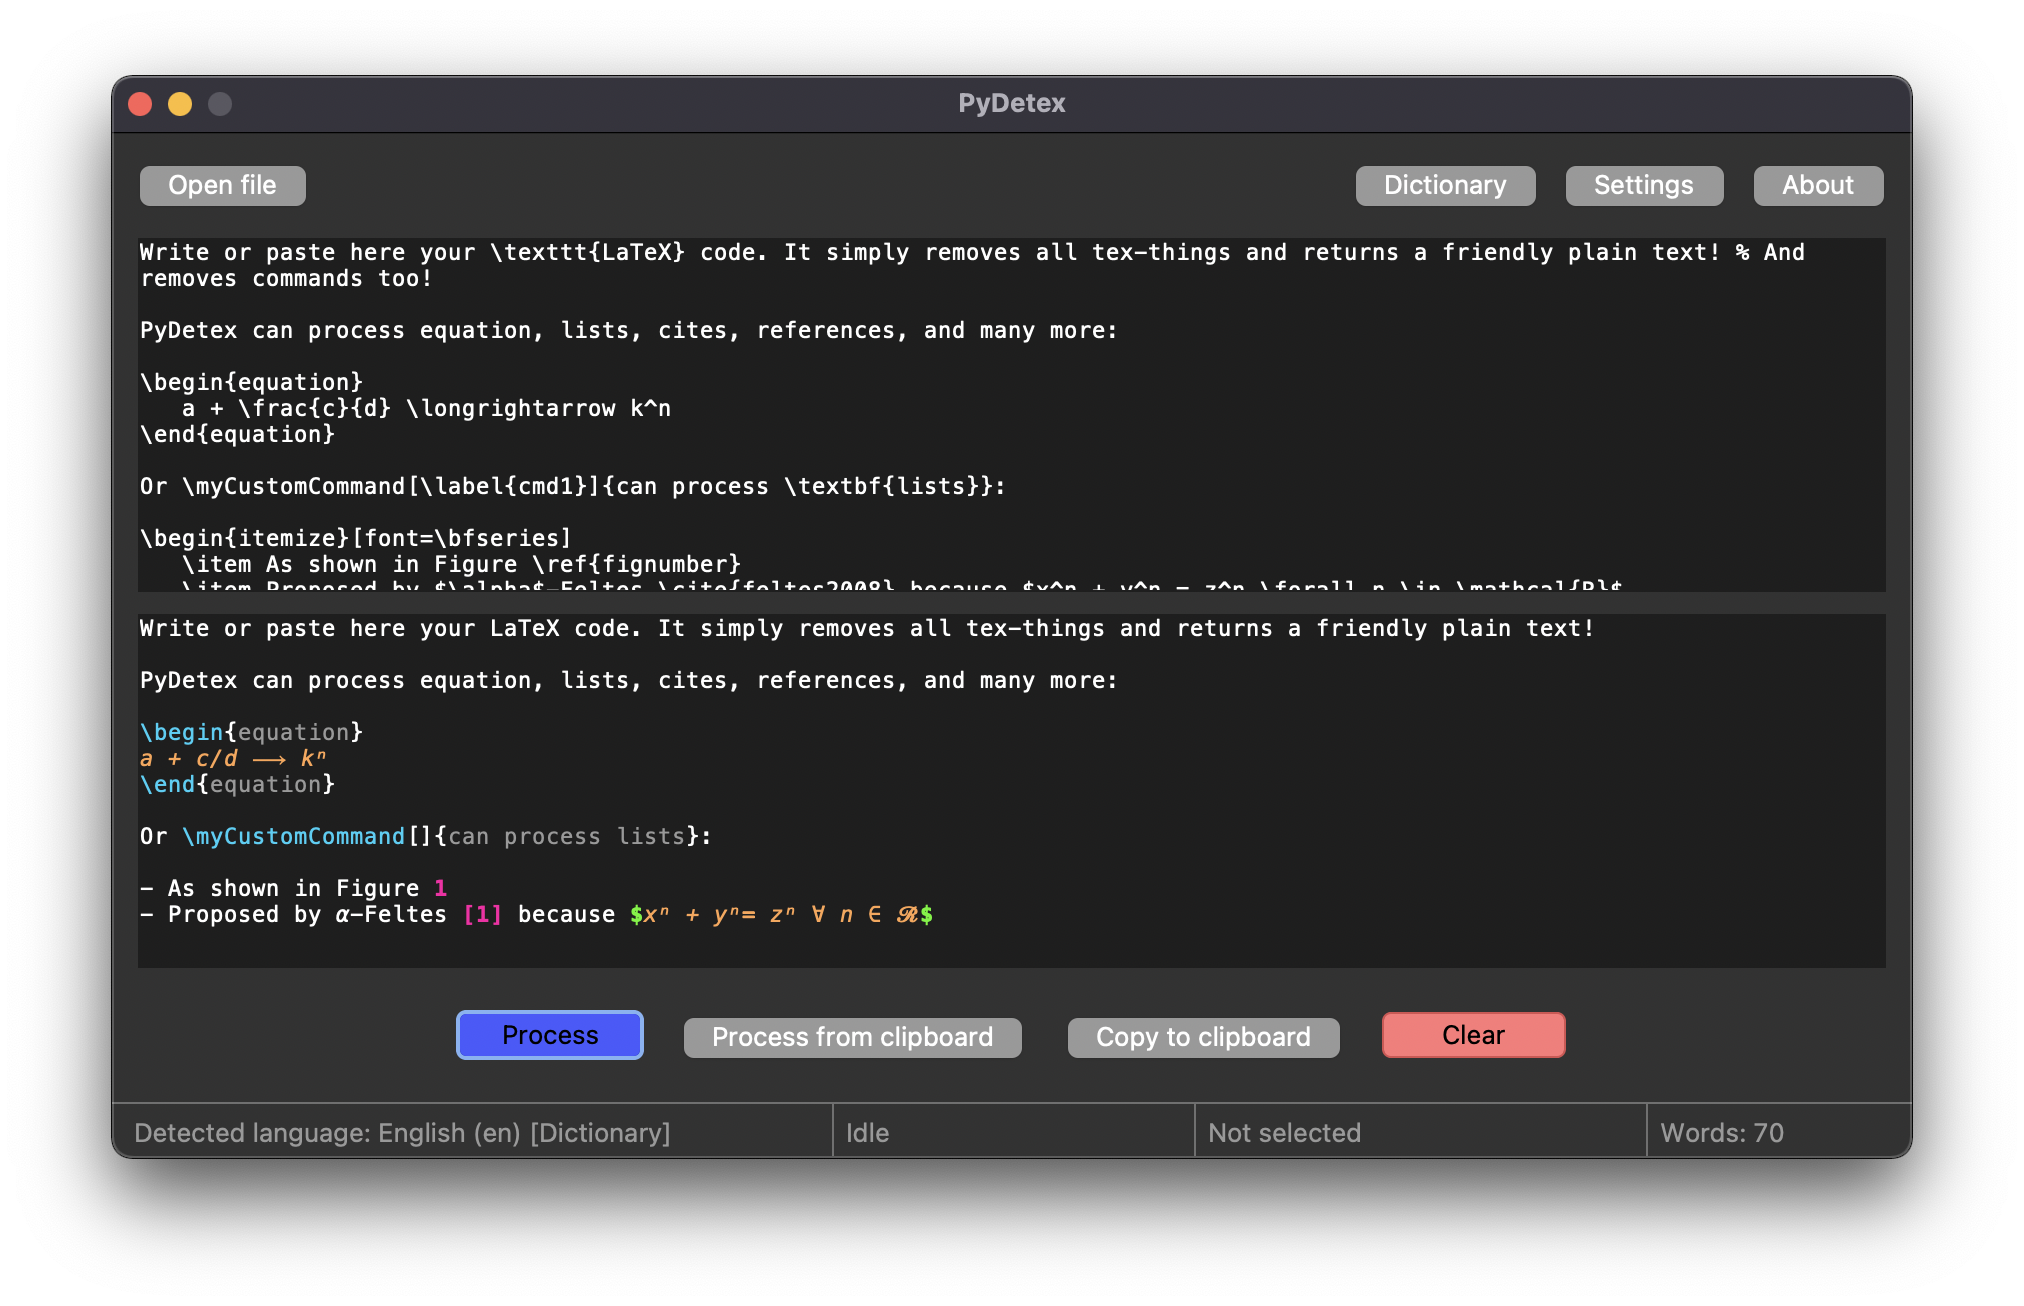
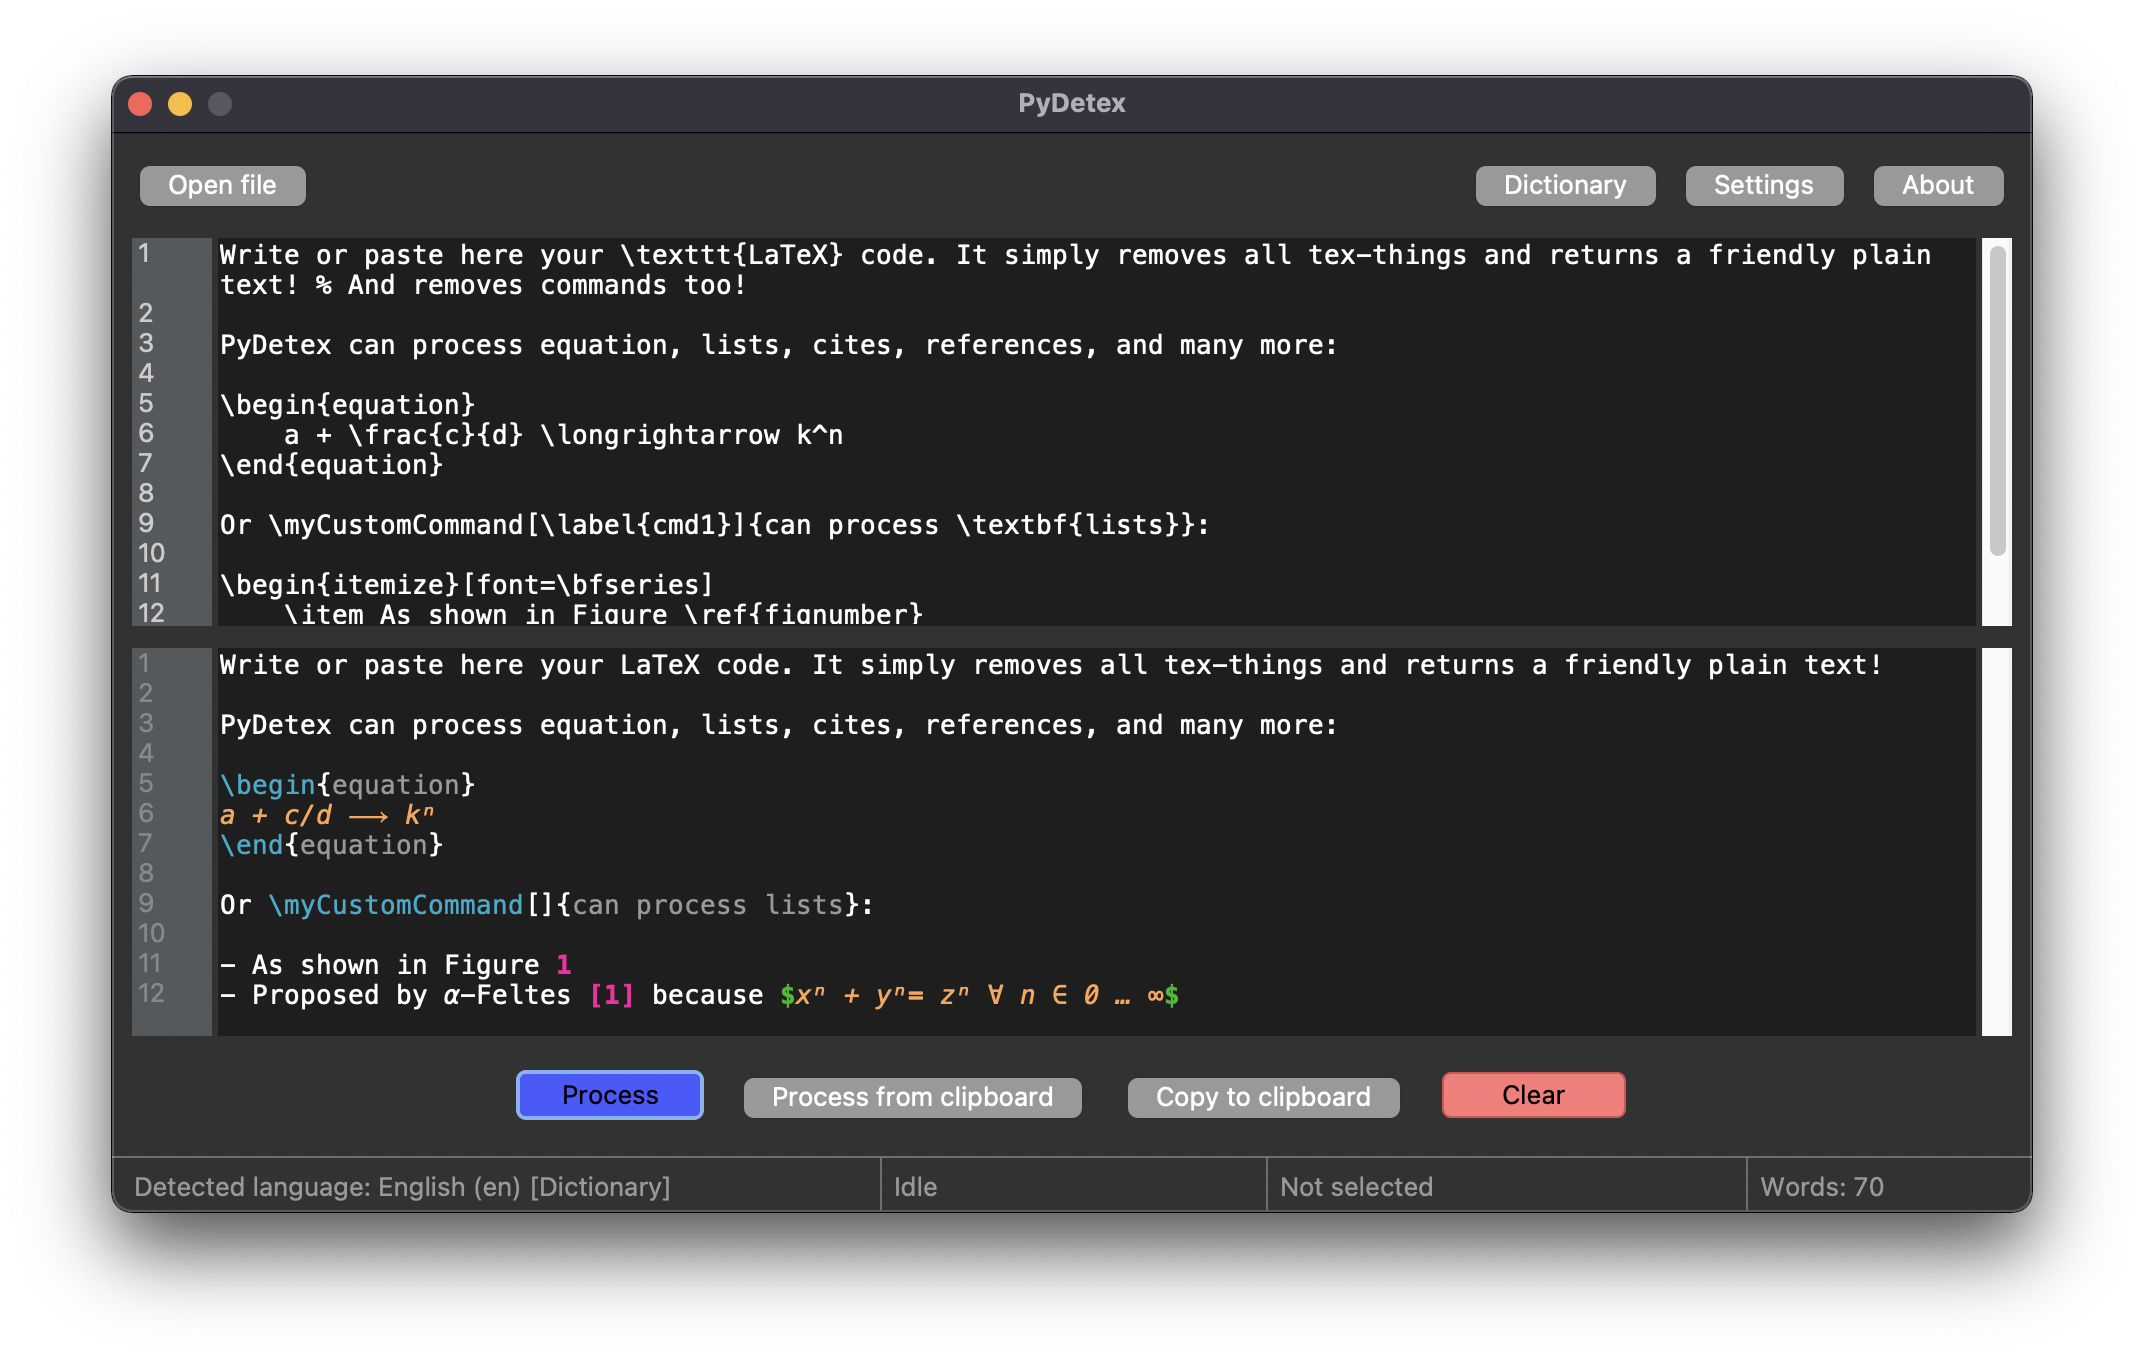
Update images

Changed region(s): [[0.0311, 0.0306, 0.9649, 0.9188], [0.4046, 0.6738, 0.4669, 0.7351], [0.8404, 0.4594, 0.8715, 0.49]]

diff --git a/pydetex/_gui_settings.py b/pydetex/_gui_settings.py
@@ -33,7 +33,7 @@ _PIPELINES = {
 
 # Store the window sizes (w, h, height_richtext, margin_between_richtext, button_margin_botttom)
 _WINDOW_SIZE = {
-    'window_size_small': [640, 360, 115, 3, 6],
+    'window_size_small': [720, 480, 175, 3, 6],
     'window_size_medium': [960, 540, 200, 5, 10],
     'window_size_large': [1280, 720, 285, 5, 15]
 }

diff --git a/README.rst b/README.rst
@@ -87,13 +87,14 @@ Simply run this command anywhere to execute the application, or just import pyde
     :scale: 40%
     :align: center
 
-    **(Simple Pipeline)** Tadada... !!! A simple GUI to process your LaTex, and paste into Grammarly? ＼(^o^)／
+    **(Simple Pipeline)** Tadada... !!! A simple GUI to process your LaTex, and paste into Google Docs, an email, or Grammarly ＼(^o^)／
 
 .. figure:: https://raw.githubusercontent.com/ppizarror/pydetex/master/docs/_static/example_strict.png
     :scale: 40%
     :align: center
 
     **(Strict Pipeline)** The strict pipeline removes all commands, or replaces by some known tags.
+    
 
 .. figure:: https://raw.githubusercontent.com/ppizarror/pydetex/master/docs/_static/pydetex_windows.png
     :scale: 40%
